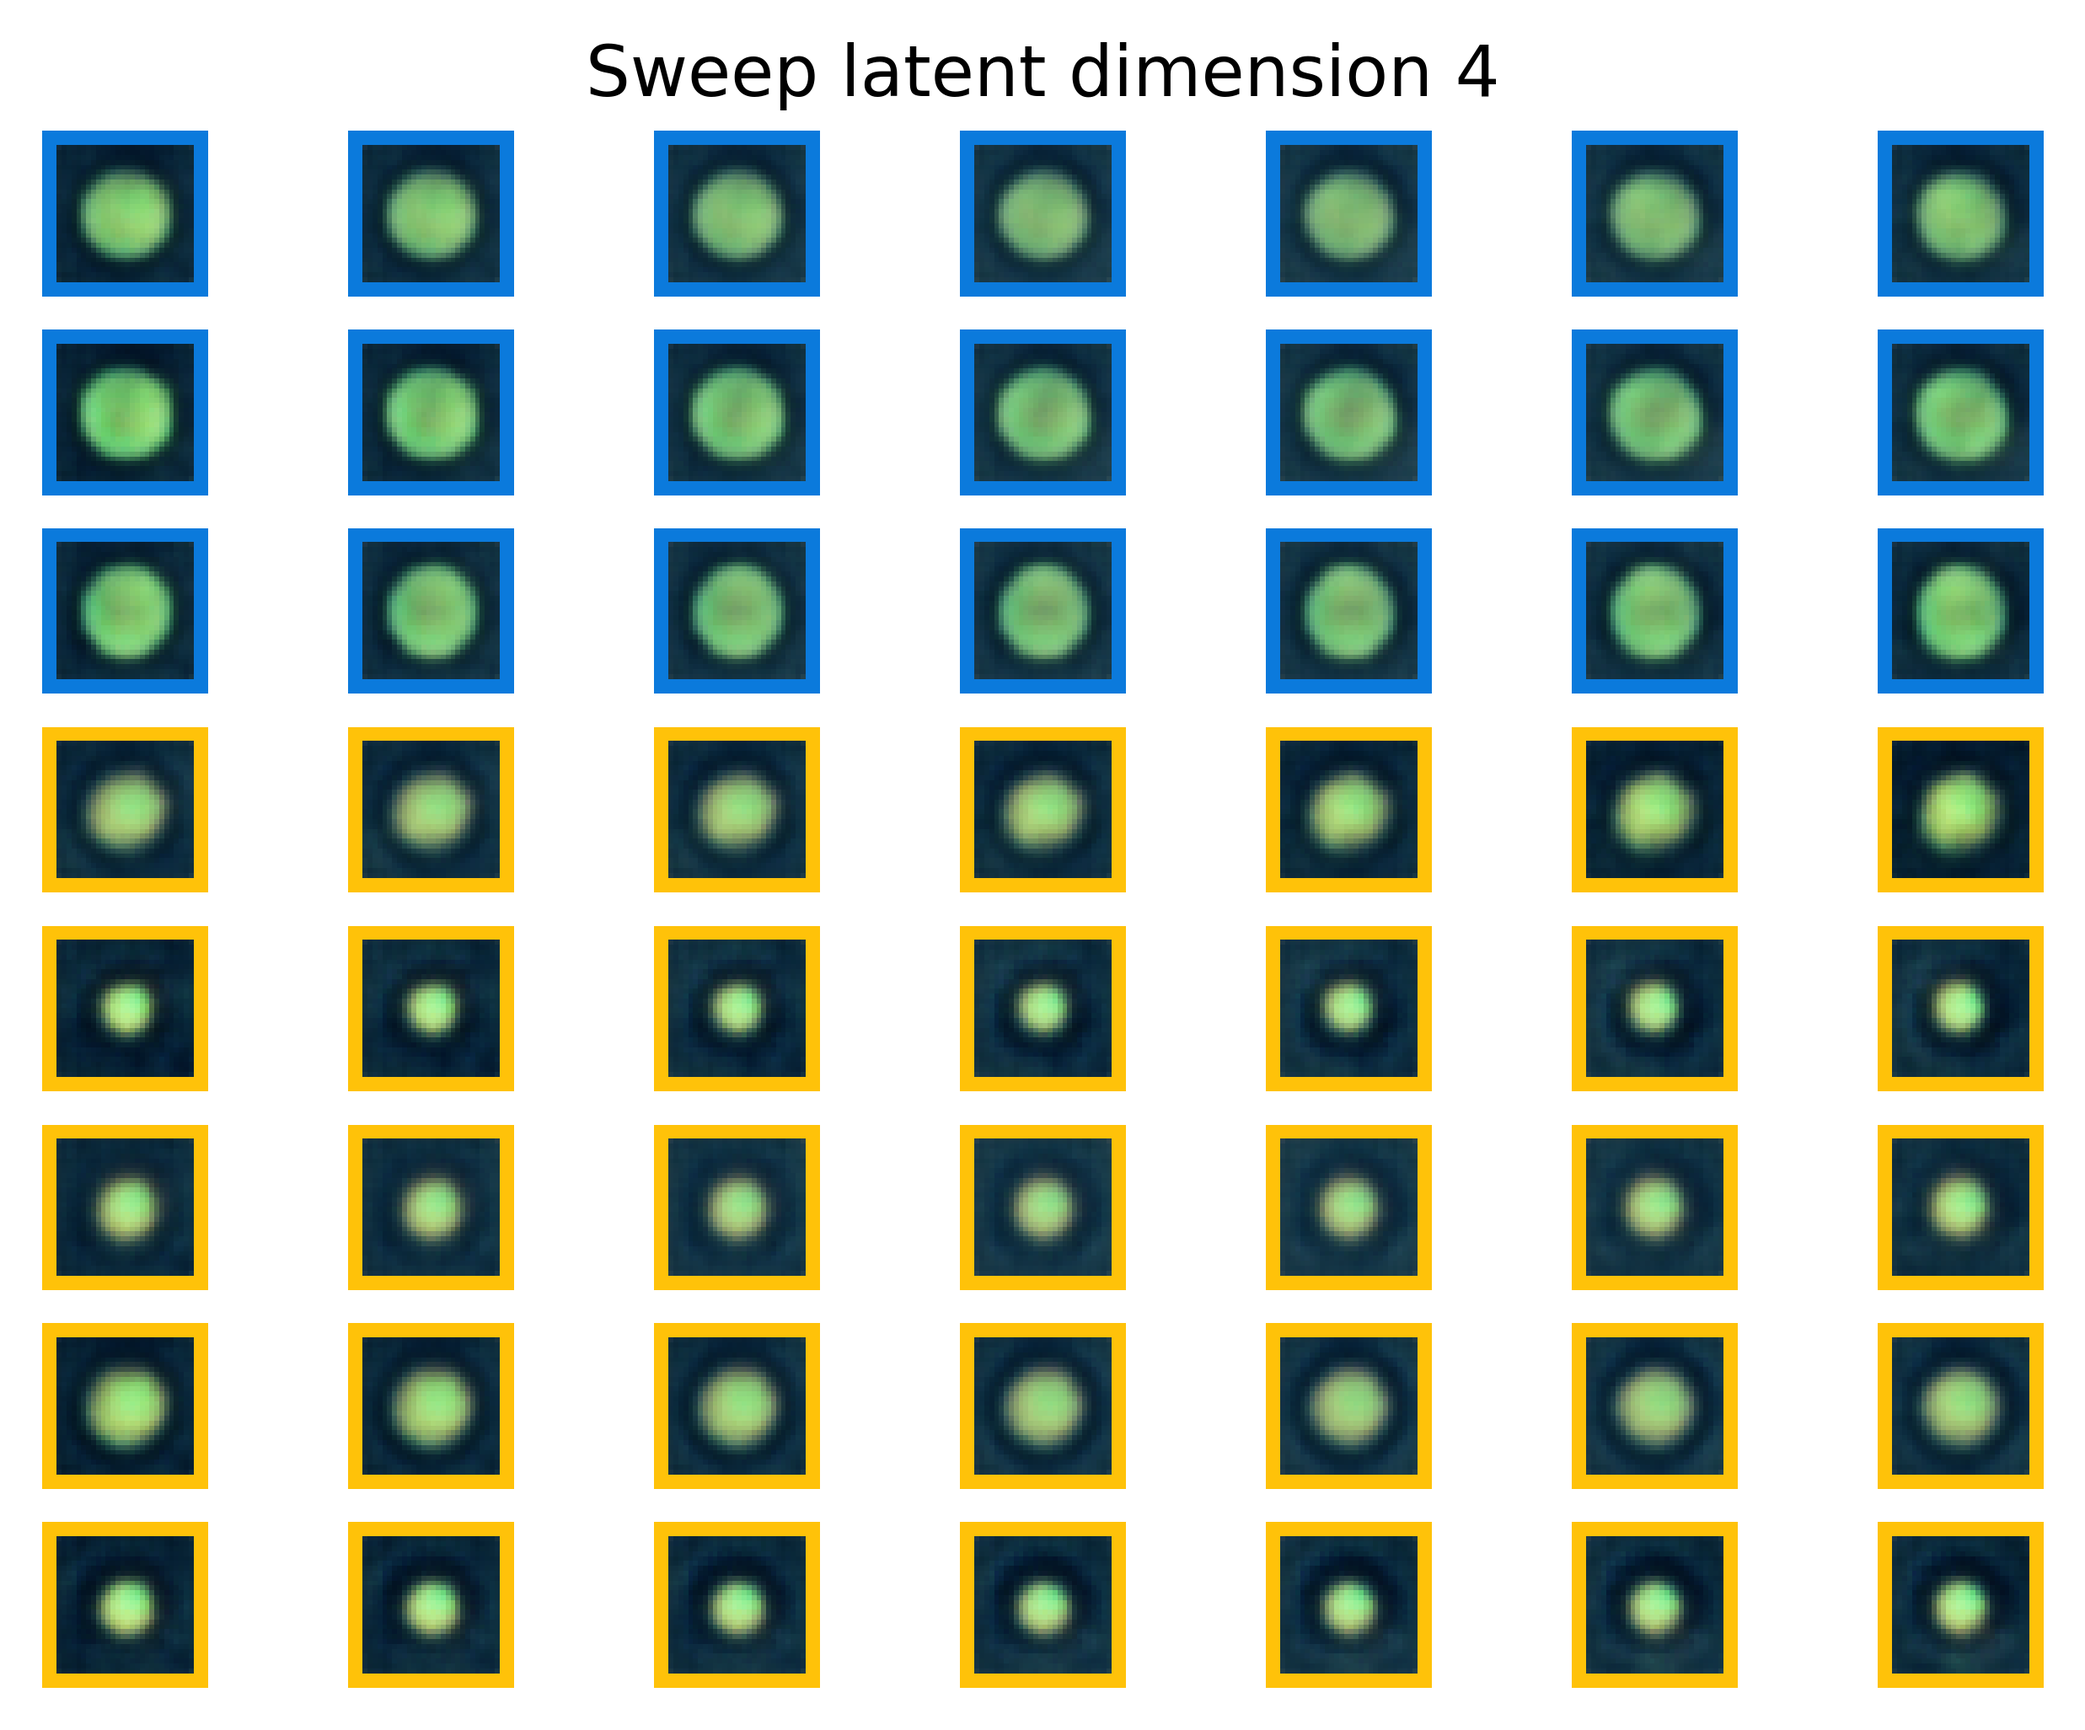
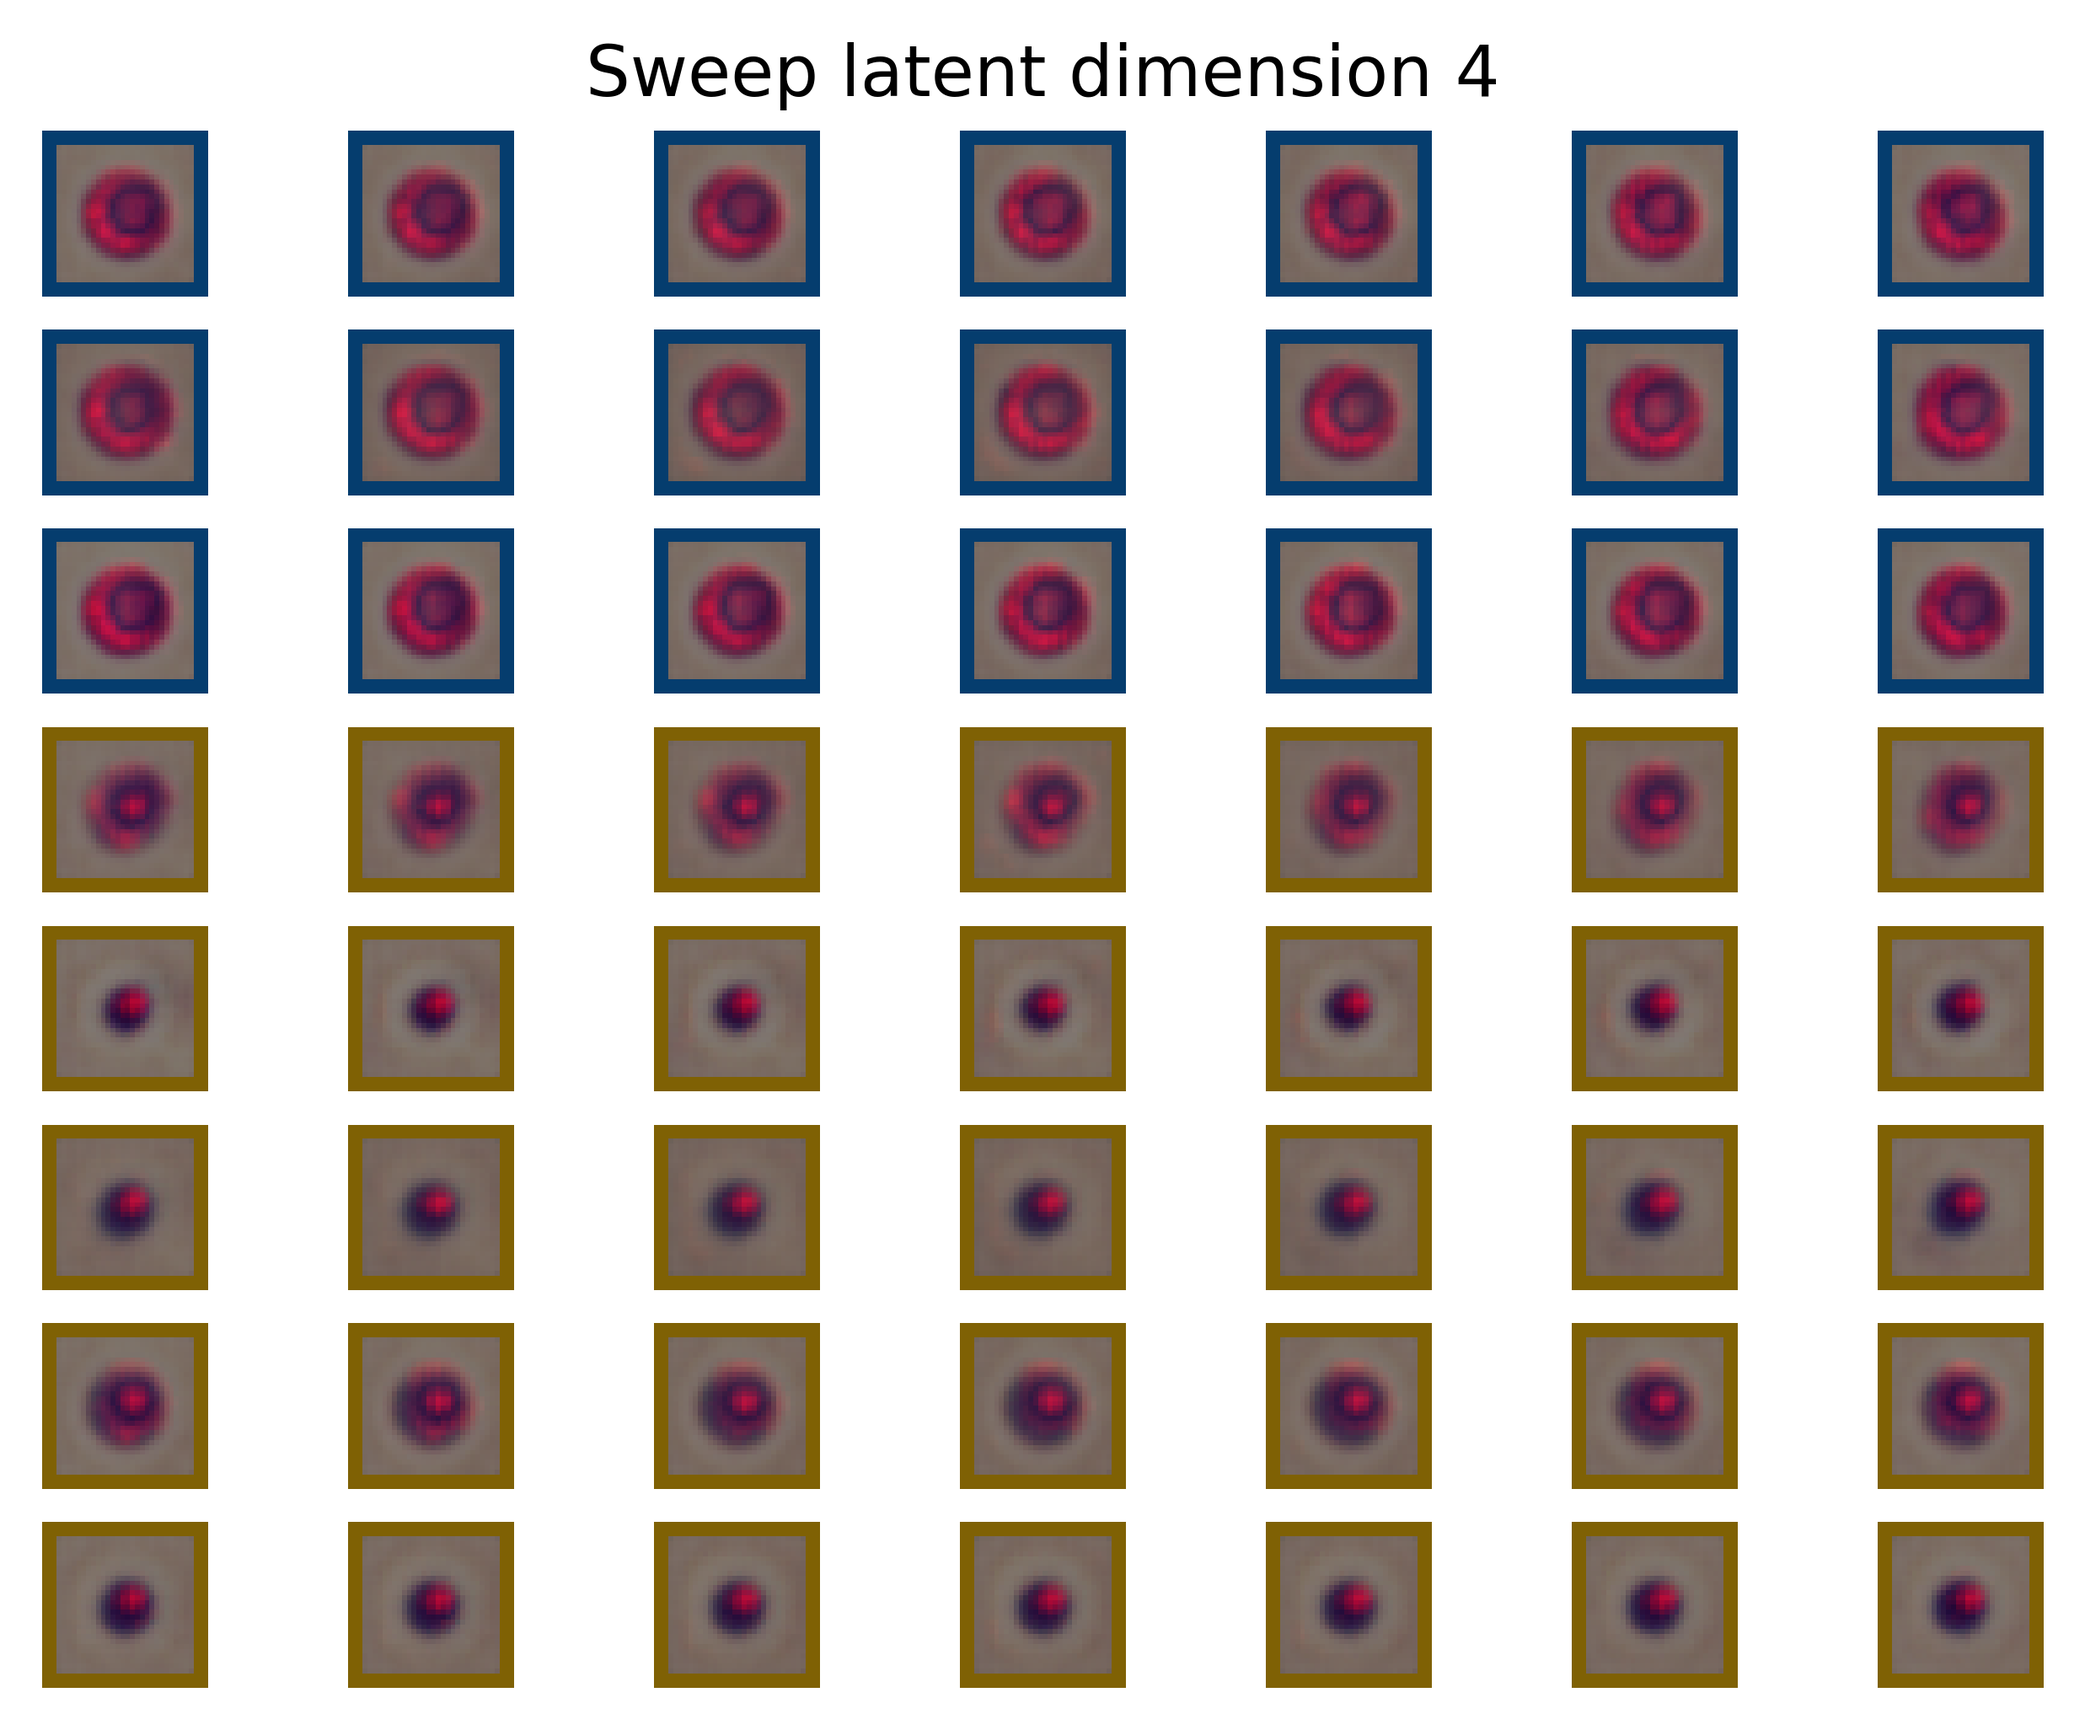
1

diff --git a/plotting.py b/plotting.py
@@ -1,3 +1,4 @@
+import cv2
 import numpy as np
 import matplotlib.pyplot as plt
 #import gif
@@ -63,46 +64,106 @@ columns correspond to latent values in sweep.
 :param yhats: result from GCE.explain()
 :param save_path: if provided, will export to {<save_path>_latentdimX.svg}
 """
-def plotExplanation(Xhats, yhats, save_path=None):
+# def plotExplanation(Xhats, yhats, save_path=None):
+#     cols = [
+#     [0.047, 0.482, 0.863],  # Blue
+#     [1.000, 0.761, 0.039],  # Yellow
+#     [0.561, 0.788, 0.227],  # Green
+#     [0.898, 0.121, 0.388],  # Pink
+#     [0.121, 0.388, 0.898],  # Light Blue
+#     [0.745, 0.243, 0.862],  # Purple
+#     [0.960, 0.498, 0.090],  # Orange
+#     [0.482, 0.047, 0.863]   # Dark Blue
+# ]
+#     border_size = 3
+#     (nsamp, z_dim, nz_sweep, nrows, ncols, nchans) = Xhats.shape
+    
+#     for latent_dim in range(z_dim):
+#         fig, axs = plt.subplots(nsamp, nz_sweep)
+#         for isamp in range(nsamp):
+#             for iz in range(nz_sweep):
+#                 if nchans == 1:  # Grayscale
+#                     img = Xhats[isamp, latent_dim, iz, :, :, 0].squeeze()
+#                     img_bordered = np.tile(np.expand_dims(np.array(cols[int(yhats[isamp, latent_dim, iz])]), (0, 1)),
+#                                            (nrows + 2 * border_size, ncols + 2 * border_size, 1))
+#                     img_bordered[border_size:-border_size, border_size:-border_size, :] = \
+#                         np.tile(np.expand_dims(img, 2), (1, 1, 3))
+#                 else:  # RGB
+#                     img = Xhats[isamp, latent_dim, iz, :, :, :].squeeze()
+#                     img_bordered = np.tile(np.expand_dims(np.array(cols[int(yhats[isamp, latent_dim, iz])]), (0, 1)),
+#                                            (nrows + 2 * border_size, ncols + 2 * border_size, 1))
+#                     img_bordered[border_size:-border_size, border_size:-border_size, :] = img
+                
+#                 axs[isamp, iz].imshow(img_bordered.astype(np.float32), interpolation='nearest')
+#                 axs[isamp, iz].axis('off')
+        
+#         axs[0, round(nz_sweep / 2) - 1].set_title('Sweep latent dimension %d' % (latent_dim + 1))
+        
+#         if save_path is not None:
+#             # plt.savefig(f'./{save_path}_latentdim{latent_dim+1}.svg', dpi=300, bbox_inches='tight')
+#             plt.savefig(f'./{save_path}_latentdim{latent_dim+1}.png', dpi=500, bbox_inches='tight')
+
+def plotExplanation(Xhats, yhats, heatmaps=None, save_path=None):
+    print("Min and Max of img:", Xhats.min(), Xhats.max())
+    print("Min and Max of heatmap:", heatmaps.min(), heatmaps.max())  
+    heatmaps = (heatmaps - heatmaps.min()) / (heatmaps.max() - heatmaps.min())
     cols = [
-    [0.047, 0.482, 0.863],  # Blue
-    [1.000, 0.761, 0.039],  # Yellow
-    [0.561, 0.788, 0.227],  # Green
-    [0.898, 0.121, 0.388],  # Pink
-    [0.121, 0.388, 0.898],  # Light Blue
-    [0.745, 0.243, 0.862],  # Purple
-    [0.960, 0.498, 0.090],  # Orange
-    [0.482, 0.047, 0.863]   # Dark Blue
-]
+        [0.047, 0.482, 0.863],  # Blue
+        [1.000, 0.761, 0.039],  # Yellow
+        [0.561, 0.788, 0.227],  # Green
+        [0.898, 0.121, 0.388],  # Pink
+        [0.121, 0.388, 0.898],  # Light Blue
+        [0.745, 0.243, 0.862],  # Purple
+        [0.960, 0.498, 0.090],  # Orange
+        [0.482, 0.047, 0.863]   # Dark Blue
+    ]
+    
     border_size = 3
     (nsamp, z_dim, nz_sweep, nrows, ncols, nchans) = Xhats.shape
-    
+
     for latent_dim in range(z_dim):
         fig, axs = plt.subplots(nsamp, nz_sweep)
+        
         for isamp in range(nsamp):
             for iz in range(nz_sweep):
-                if nchans == 1:  # Grayscale
-                    img = Xhats[isamp, latent_dim, iz, :, :, 0].squeeze()
-                    img_bordered = np.tile(np.expand_dims(np.array(cols[int(yhats[isamp, latent_dim, iz])]), (0, 1)),
-                                           (nrows + 2 * border_size, ncols + 2 * border_size, 1))
-                    img_bordered[border_size:-border_size, border_size:-border_size, :] = \
-                        np.tile(np.expand_dims(img, 2), (1, 1, 3))
-                else:  # RGB
-                    img = Xhats[isamp, latent_dim, iz, :, :, :].squeeze()
-                    img_bordered = np.tile(np.expand_dims(np.array(cols[int(yhats[isamp, latent_dim, iz])]), (0, 1)),
-                                           (nrows + 2 * border_size, ncols + 2 * border_size, 1))
-                    img_bordered[border_size:-border_size, border_size:-border_size, :] = img
+                img = Xhats[isamp, latent_dim, iz, :, :, :3].squeeze()  # assuming the last dimension is color
                 
+                img_bordered = np.tile(np.expand_dims(np.array(cols[int(yhats[isamp, latent_dim, iz])]), (0, 1)),
+                                       (nrows + 2 * border_size, ncols + 2 * border_size, 1))
+                img_bordered[border_size:-border_size, border_size:-border_size, :] = img
+
                 axs[isamp, iz].imshow(img_bordered.astype(np.float32), interpolation='nearest')
+                
+                if heatmaps is not None:
+                    heatmap = heatmaps[isamp, latent_dim, iz, :, :, 0]
+    
+                    # Normalizing the heatmap to [0, 1]
+                    heatmap = (heatmap - np.min(heatmap)) / (np.max(heatmap) - np.min(heatmap))
+                    
+                    # Make an empty array like img_bordered
+                    red_heatmap = np.zeros_like(img_bordered)
+                    
+                    # Insert the heatmap into the red channel of the area inside the border
+                    red_heatmap[border_size:-border_size, border_size:-border_size, 0] = heatmap
+
+                    
+                    # Alpha blending with the bordered image
+                    alpha = 0.5  # Change this as needed
+                    overlay = (img_bordered * (1 - alpha)) + (red_heatmap * alpha)
+                    
+                    # Clip to [0, 1] range
+                    overlay = np.clip(overlay, 0, 1)
+                    
+                    # Display the overlay
+                    axs[isamp, iz].imshow(overlay, interpolation='nearest')
+
+
                 axs[isamp, iz].axis('off')
         
-        axs[0, round(nz_sweep / 2) - 1].set_title('Sweep latent dimension %d' % (latent_dim + 1))
+        axs[0, round(nz_sweep / 2) - 1].set_title(f'Sweep latent dimension {latent_dim + 1}')
         
         if save_path is not None:
-            # plt.savefig(f'./{save_path}_latentdim{latent_dim+1}.svg', dpi=300, bbox_inches='tight')
             plt.savefig(f'./{save_path}_latentdim{latent_dim+1}.png', dpi=500, bbox_inches='tight')
-
-
 
 def outline_mask(ax, mask, bounds=(0,1,0,1), color=(0,0,0,0.25)):
     # https://stackoverflow.com/questions/24539296/outline-a-region-in-a-graph

diff --git a/make_fig3.py b/make_fig3.py
@@ -13,7 +13,7 @@ import torch
 import util
 import plotting
 from GCE import GenerativeCausalExplainer
-
+from captum.attr import Saliency
 
 # --- parameters ---
 # dataset
@@ -39,7 +39,7 @@ randseed = 0
 gce_path = f'./pretrained_models/{dataset}_{"".join([str(i) for i in data_classes])}_gce'
 retrain_gce = False # train explanatory VAE from scratch
 save_gce = False # save/overwrite pretrained explanatory VAE at gce_path
-
+show_heatmap = True
 
 # --- initialize ---
 device = torch.device('cuda' if torch.cuda.is_available() else 'cpu')
@@ -127,4 +127,19 @@ x = torch.from_numpy(vaX[sample_ind])
 print('x min: %f, max: %f' % (x.min(), x.max()))
 zs_sweep = [-3., -2., -1., 0., 1., 2., 3.]
 Xhats, yhats = gce.explain(x, zs_sweep)
-plotting.plotExplanation(1.-Xhats, yhats, save_path='figs/fig3')
+if show_heatmap:
+    def classifier_wrapper(*args, **kwargs):
+        prob_out, out = gce.classifier(*args, **kwargs)
+        return out
+    attr_method = Saliency(classifier_wrapper) #.reshape(8 * 8 * 7, 28, 28, 3) 
+    #.permute(0,3,1,2)
+    reshaped_Xhats =torch.tensor(Xhats).reshape(-1, nrow, ncol, c_dim).permute(0,3,1,2).float().to(device)
+
+    reshaped_yhats = torch.tensor(yhats).reshape(-1).long().to(device)
+    attributions = attr_method.attribute(reshaped_Xhats, target=reshaped_yhats)
+    # permute(0,2,3,1) back
+    
+    Xhats_attributions = attributions.permute(0,2,3,1).reshape(*Xhats.shape).detach().cpu().numpy()
+    print(Xhats_attributions.shape)
+
+plotting.plotExplanation(Xhats, yhats,heatmaps=Xhats_attributions, save_path='figs/fig3') # it was 1. - Xhats
